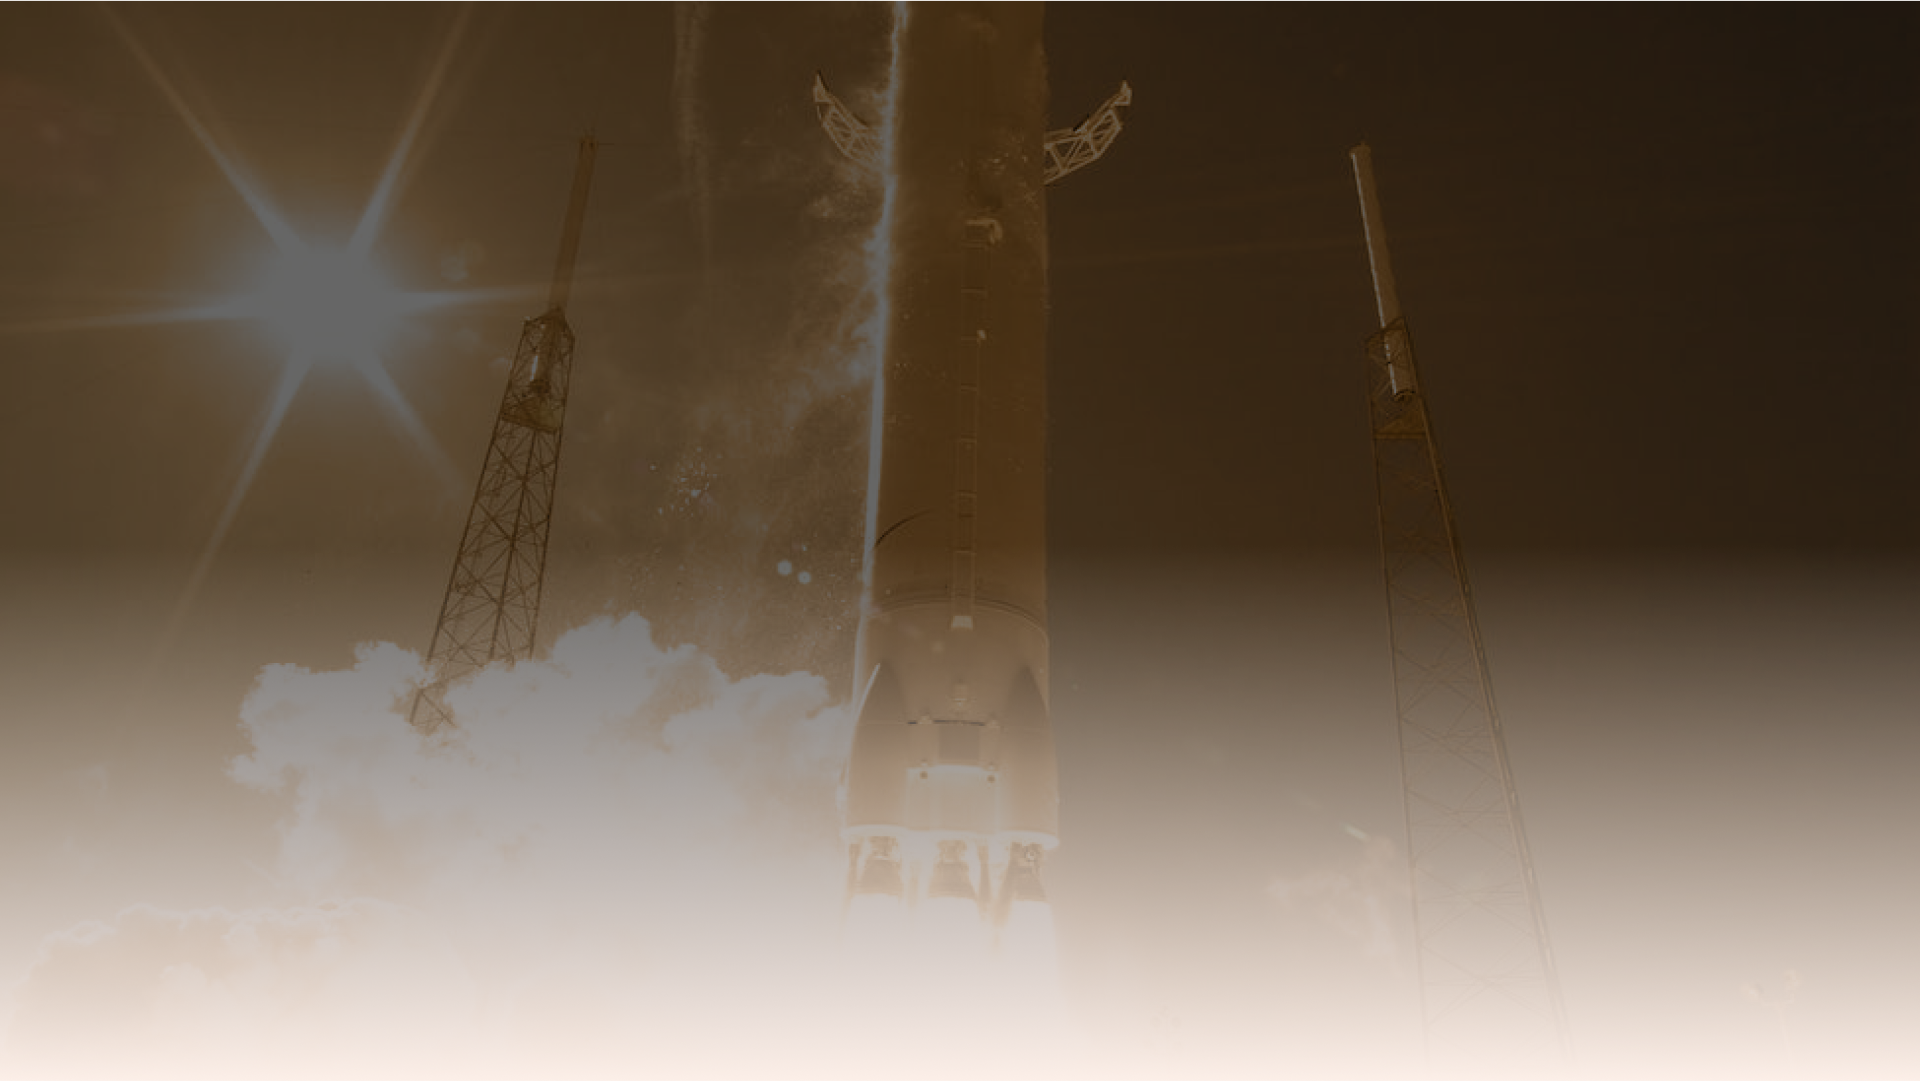
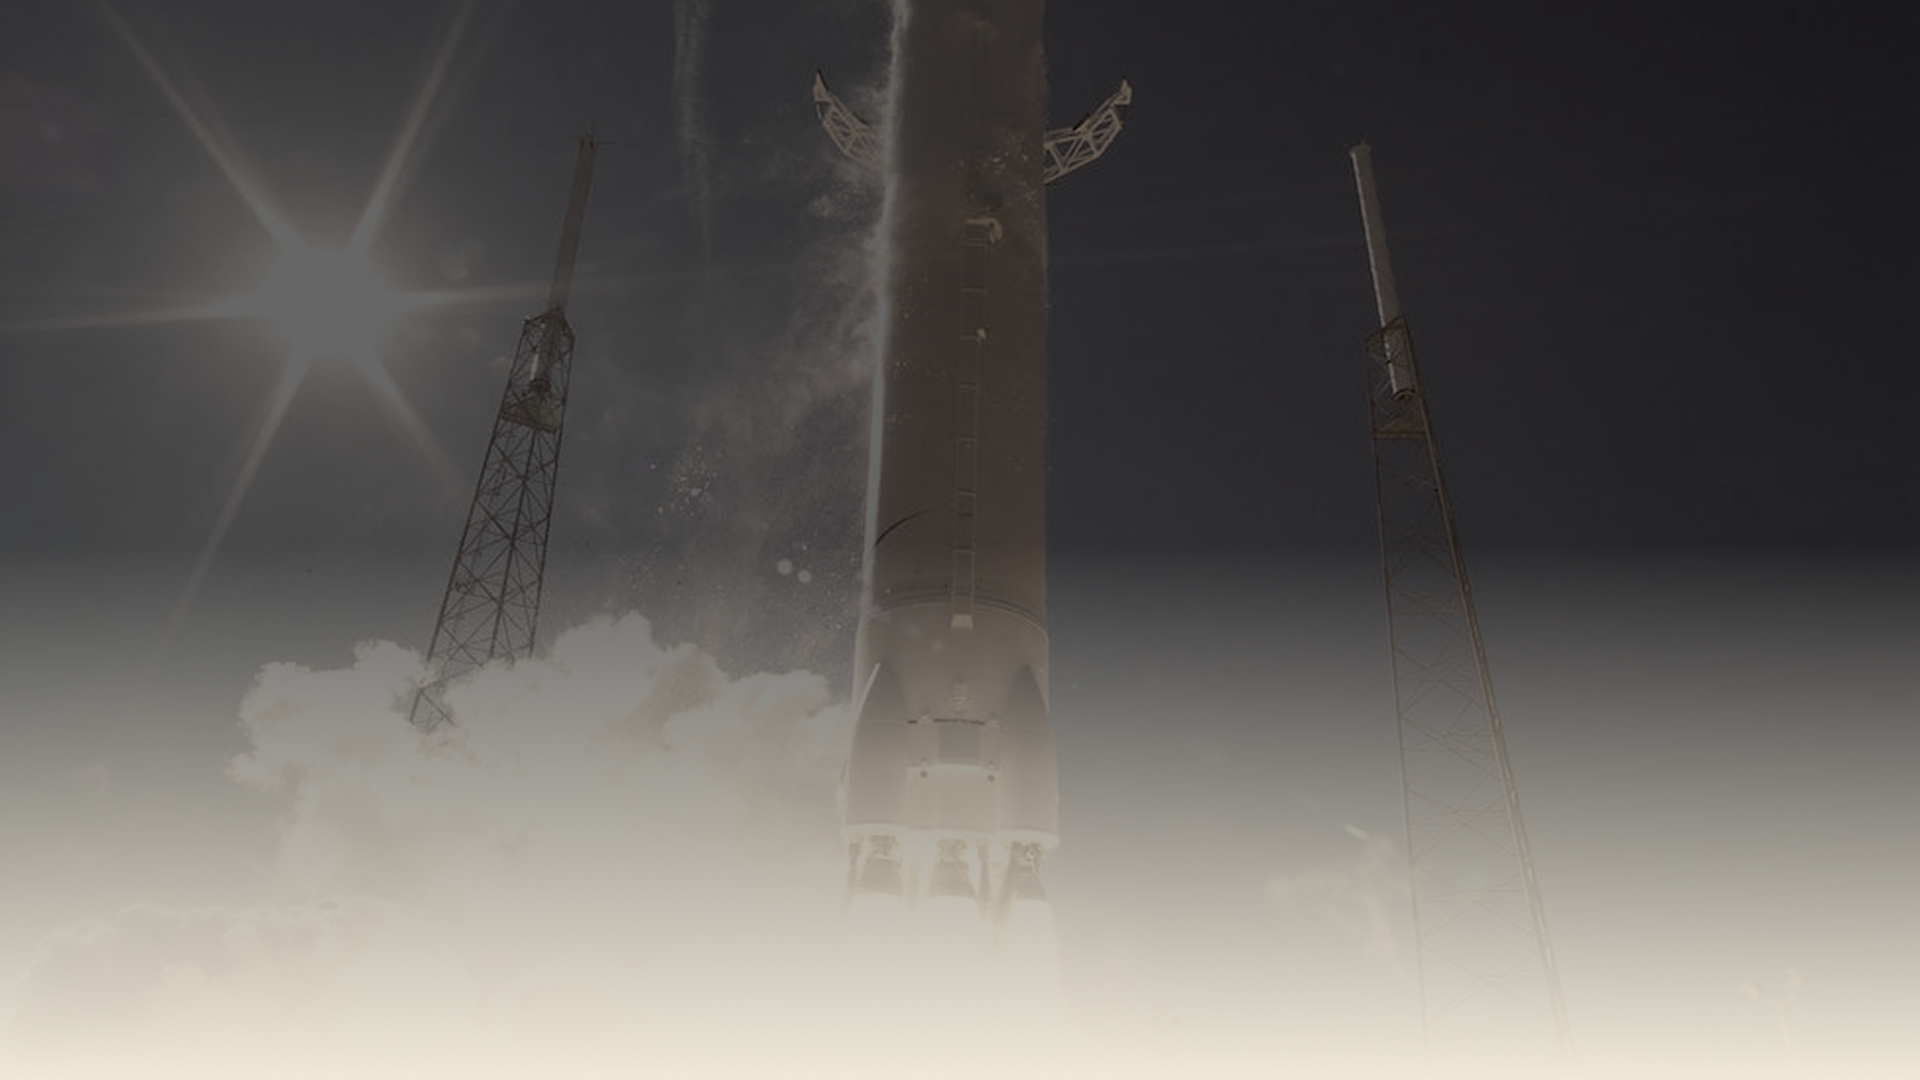
feat(color): fondos de los 5 heroes de servicios re-tenidos por el cliente a la paleta nueva
Mismas fotos, tono neutro de la paleta y base que funde al crema #f0e9d9. Sin cambios de codigo: conservan nombre y ruta.

Changed region(s): [[0.0, 0.0, 0.75, 0.55]]

diff --git a/docs/color-system.md b/docs/color-system.md
@@ -178,7 +178,7 @@ Pisos: 4.5:1 texto normal, 3:1 texto ≥ 24 px o ≥ 19 px bold, 3:1 componentes
 
 1. `src/app/[locale]/layout.tsx`: `viewport.themeColor = "#f0e9d9"`. La metadata de Next no puede leer CSS. Es el crema de la paleta y hay que actualizarlo a mano si cambia `--lm-cream`.
 2. Los tres templates de email (diferidos, ver arriba).
-3. Assets: `icons/about/*.svg`, `icons/about/linkedin.svg` y `socials/whatsapp.svg` conservan sus colores por decisión del cliente. `heroBg.png`, `finalCTA.png` y los 9 PNG de premios fueron regenerados por el cliente en la paleta nueva.
+3. Assets: `icons/about/*.svg`, `icons/about/linkedin.svg` y `socials/whatsapp.svg` conservan sus colores por decisión del cliente. `heroBg.png`, `finalCTA.png`, los 9 PNG de premios y los 5 fondos de los heroes de servicios (`generalBg`, `emprendedoresBg`, `internetBg`, `metaversoBg`, `propInelectualBg`) fueron regenerados por el cliente en la paleta nueva. Los de servicios conservan la misma luminosidad que los originales en la zona del titulo, asi que el texto crema mantiene su contraste: entre 4.2:1 y 13.3:1 de media segun la pagina, con el de asesoramiento general como el mas claro.
 
 ## 8. Pendientes y zonas ambiguas para decidir
 
